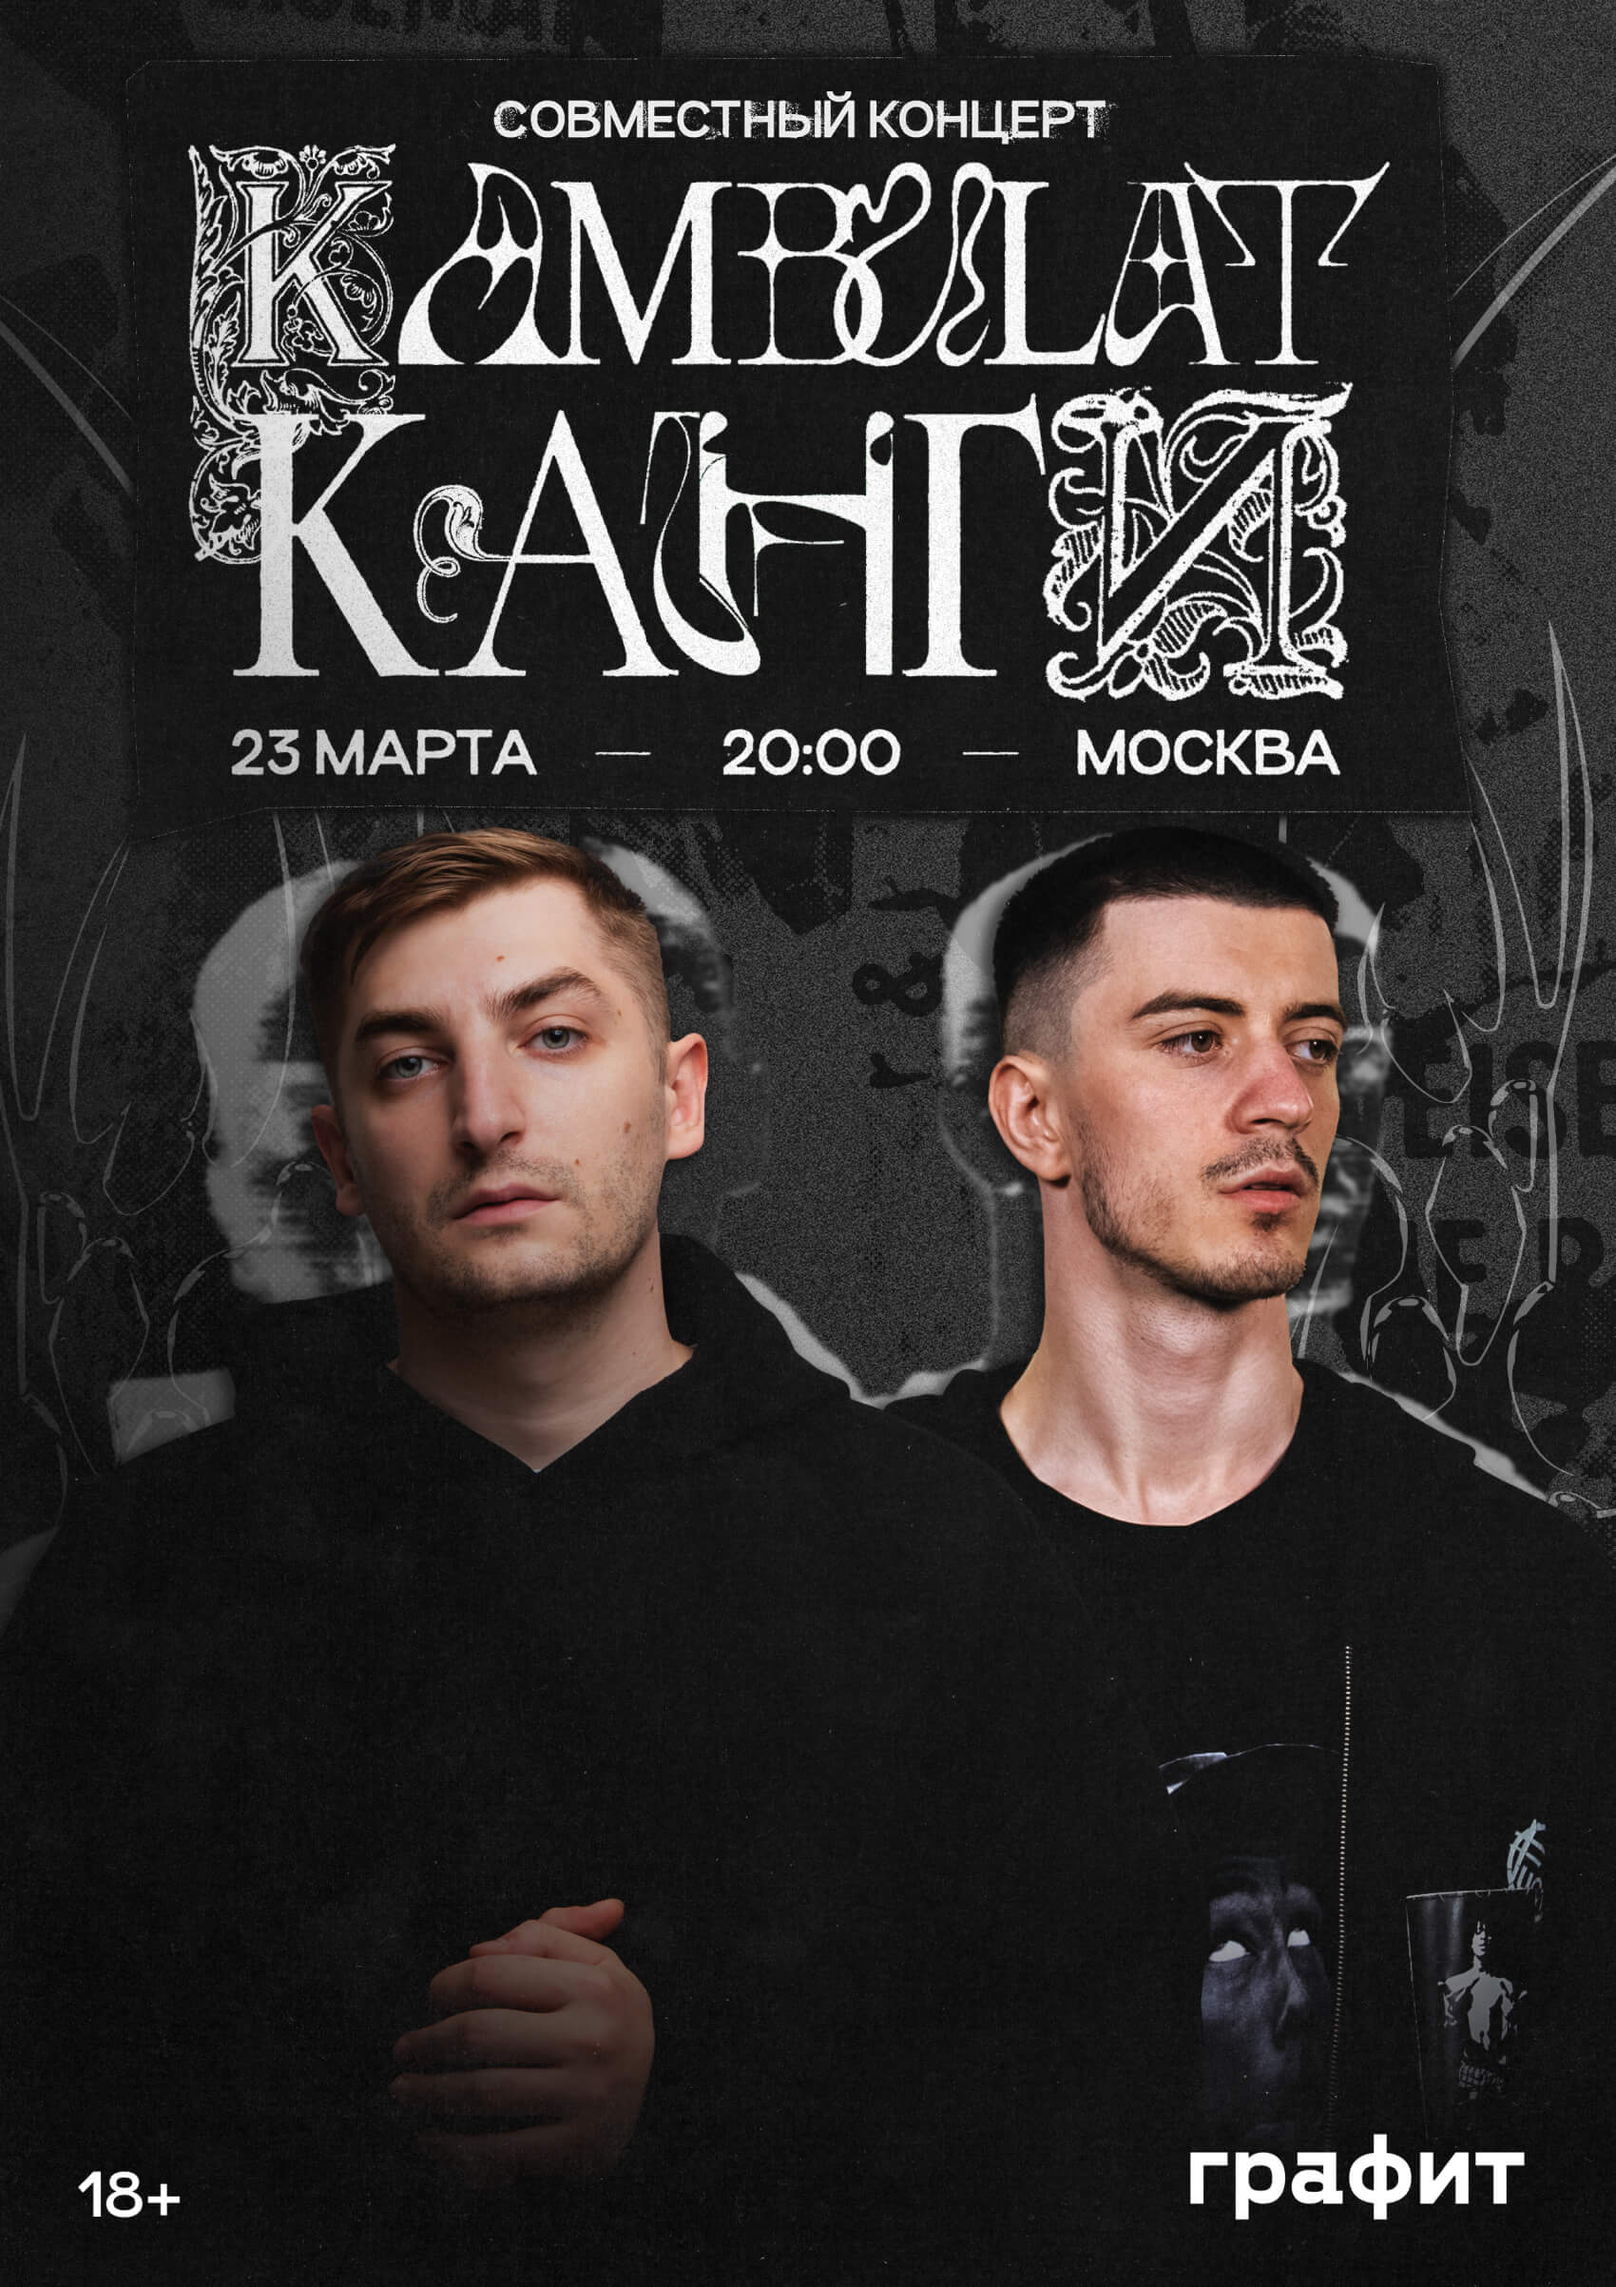
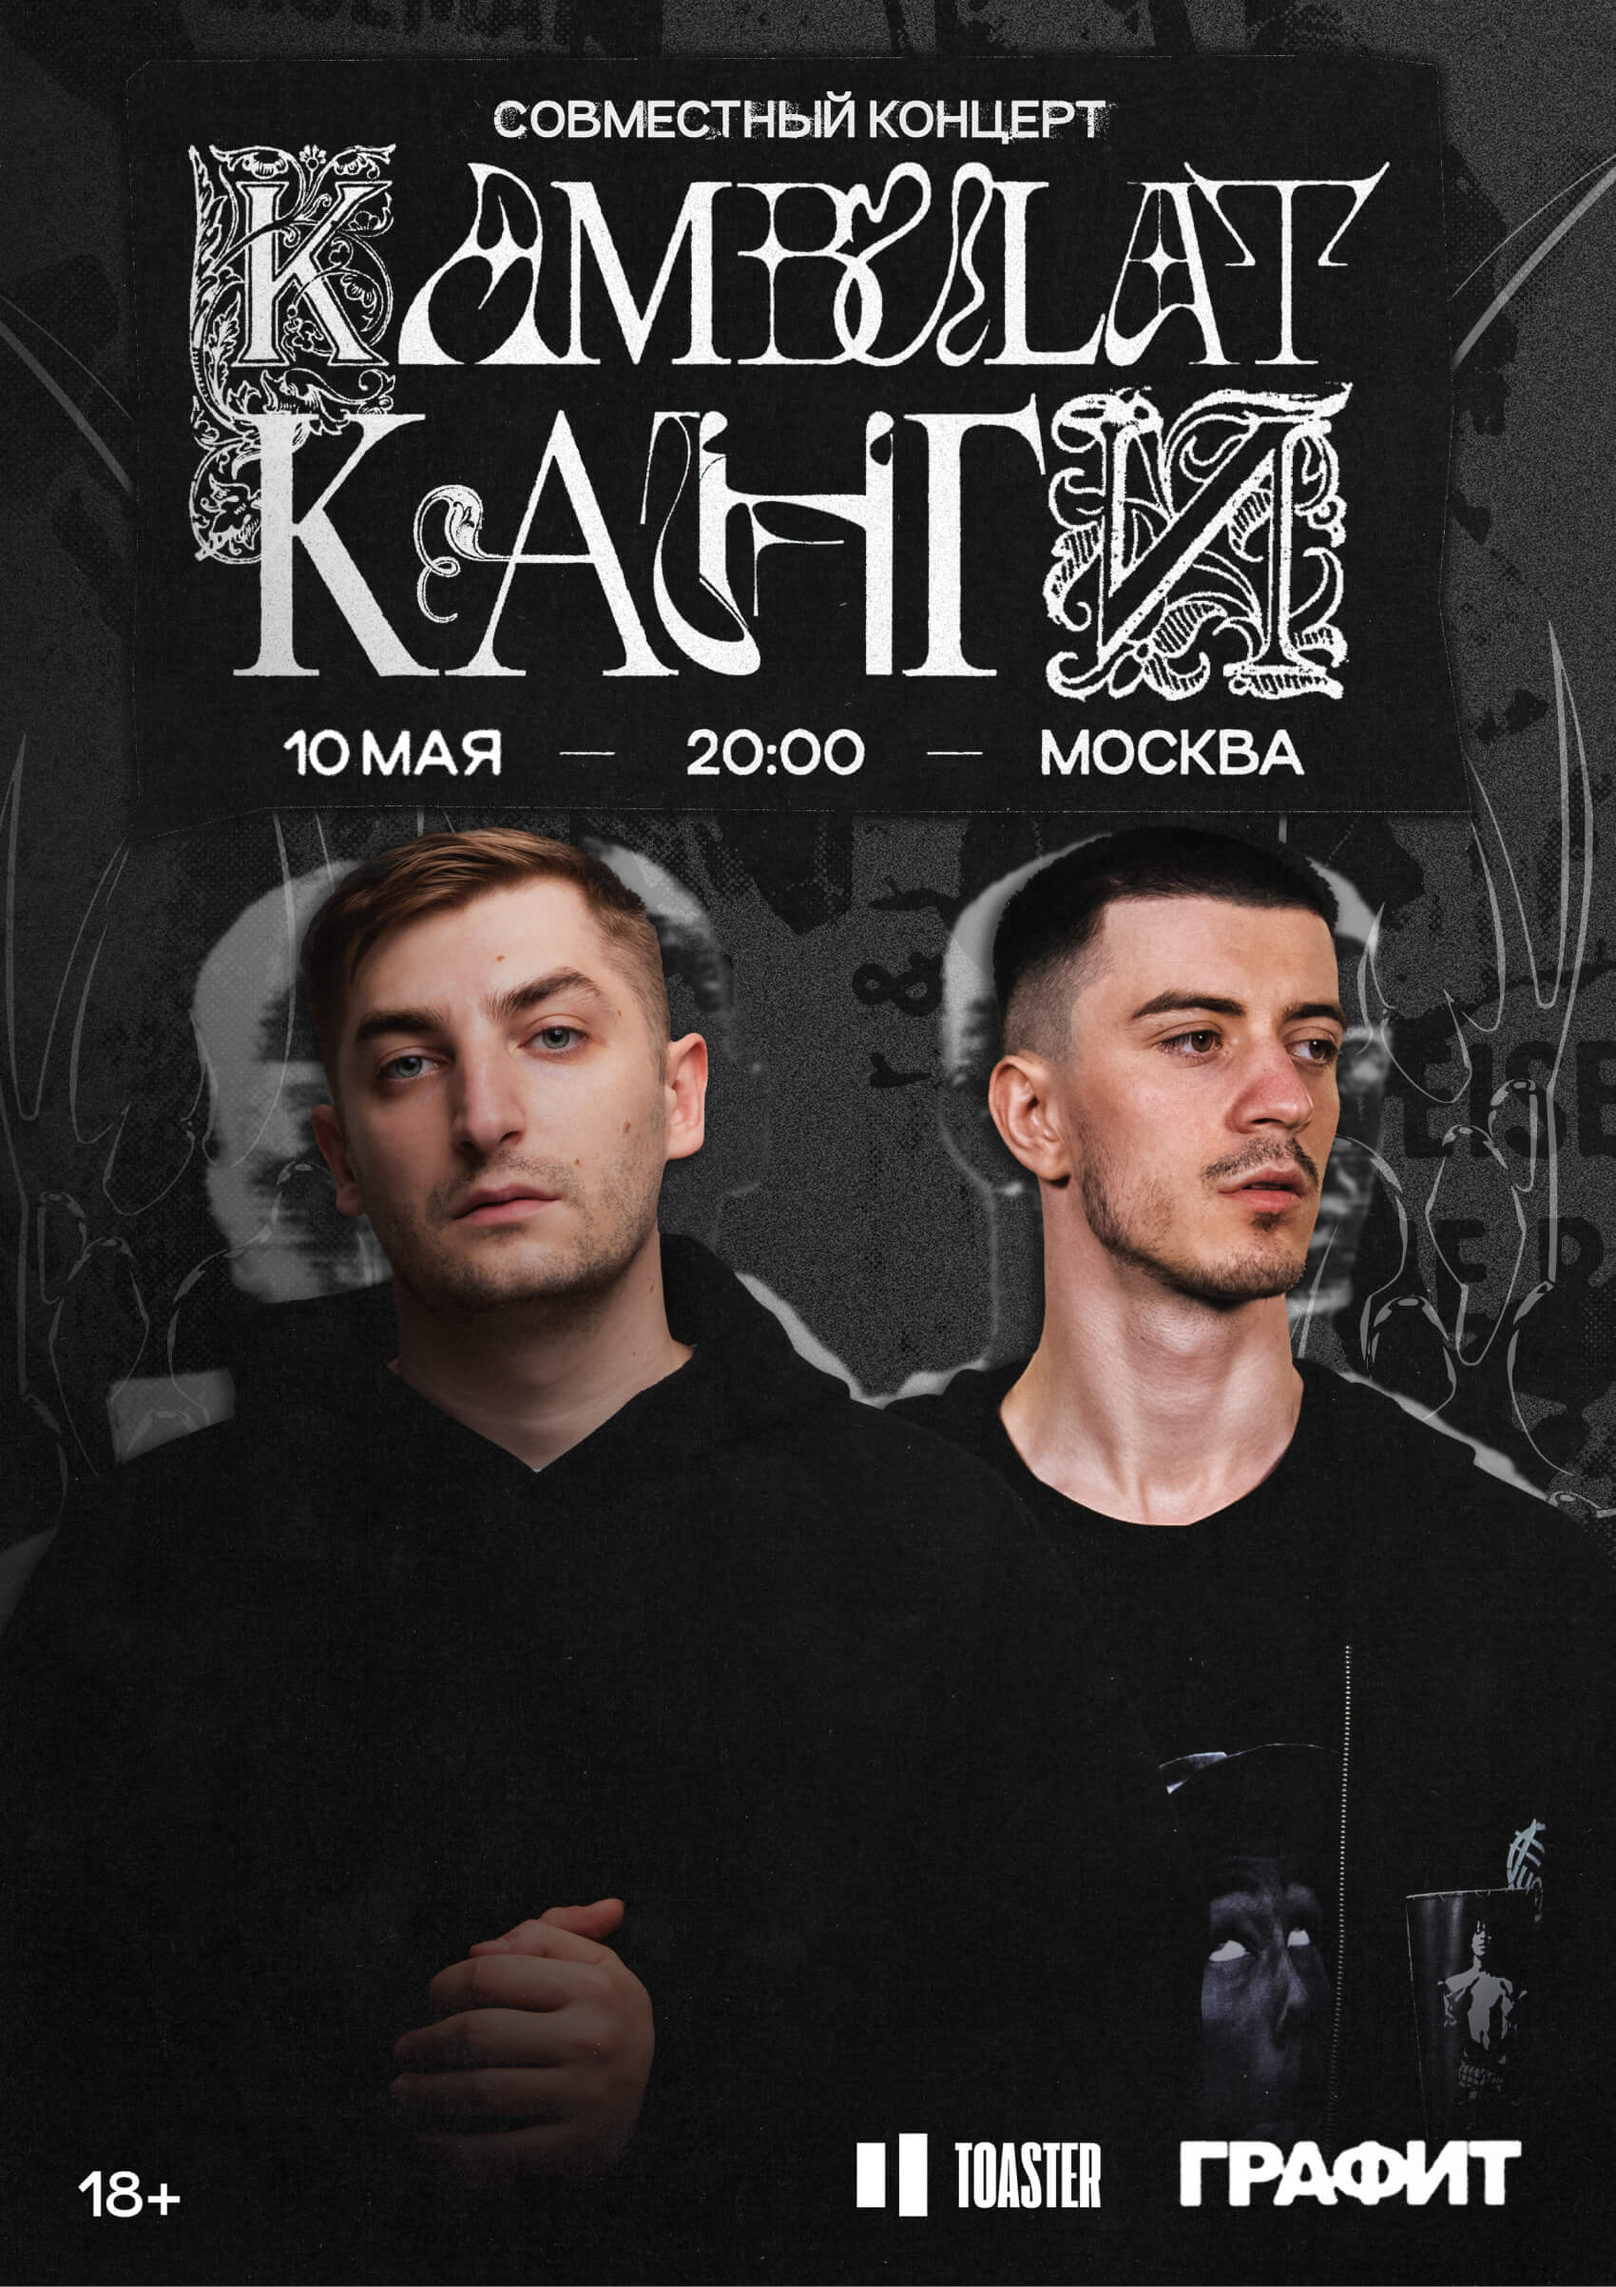
edit `current` events

diff --git a/src/components/PostersData.tsx b/src/components/PostersData.tsx
@@ -6,11 +6,6 @@ interface Poster {
 
 export const postersData: Poster[] = [
   {
-    image: 'kangi_kambulat',
-    date: '23.march',
-    link: 'https://widget.afisha.yandex.ru/w/sessions/ticketsteam-5811@16778617?clientKey=058374e2-3eea-4d37-ae2f-3e21651b7c56&regionId=213',
-  },
-  {
     image: 'shleager',
     date: '29.march',
     link: 'https://ticketscloud.com/v1/widgets/common?token=eyJhbGciOiJIUzI1NiIsImlzcyI6InRpY2tldHNjbG91ZC5ydSIsInR5cCI6IkpXVCJ9.eyJwIjoiNjA4MmExMWIzN2E5MWU3YTQ1YzE1MGQwIn0.cjdDHinwC-6T5hF3tuUu3BZGdPU6uSX29YkCSG2BrnA&event=65ae86aee32dffaccf1295be&s=1&r=1&org=6082a11b37a91e7a45c150d0&city=524901&category=592841f8515e35002dead938&tags=592841f8515e35002dead94a%2C%D0%A0%D1%8D%D0%BF%2F%D0%A5%D0%B8%D0%BF-%D1%85%D0%BE%D0%BF&lang=ru',
@@ -26,13 +21,8 @@ export const postersData: Poster[] = [
     link: 'https://vk.com/app51856676_-224604814',
   },
   {
-    image: 'quok_a4',
-    date: '06.april',
-    link: 'https://widget.afisha.yandex.ru/w/sessions/NjM5MDh8NDkzMzAyfDY0MjM3OTV8MTcxMjQzMDAwMDAwMA==?clientKey=058374e2-3eea-4d37-ae2f-3e21651b7c56',
-  },
-  {
     image: 'boogie',
-    date: '13.may',
+    date: '13.april',
     link: 'https://afisha.yandex.ru/moscow/concert/boogie-party-vol-3',
   },
   {
@@ -41,9 +31,19 @@ export const postersData: Poster[] = [
     link: 'https://widget.afisha.yandex.ru/w/sessions/ticketsteam-5811@16955192?clientKey=058374e2-3eea-4d37-ae2f-3e21651b7c56&regionId=213',
   },
   {
+    image: 'kangi_kambulat',
+    date: '10.may',
+    link: 'https://widget.afisha.yandex.ru/w/sessions/ticketsteam-5811@16778617?clientKey=058374e2-3eea-4d37-ae2f-3e21651b7c56&regionId=213',
+  },
+  {
     image: 'temnee',
     date: '24.may',
     link: 'https://widget.afisha.yandex.ru/w/sessions/NjM5MDh8NDkzMzA3fDYzODQzNjV8MTcxNjU3MDAwMDAwMA==?clientKey=058374e2-3eea-4d37-ae2f-3e21651b7c56',
+  },
+  {
+    image: 'quok',
+    date: '31.may',
+    link: 'https://widget.afisha.yandex.ru/w/sessions/NjM5MDh8NDkzMzAyfDY0MjM3OTV8MTcxMjQzMDAwMDAwMA==?clientKey=058374e2-3eea-4d37-ae2f-3e21651b7c56',
   },
   {
     image: 'slezi',
